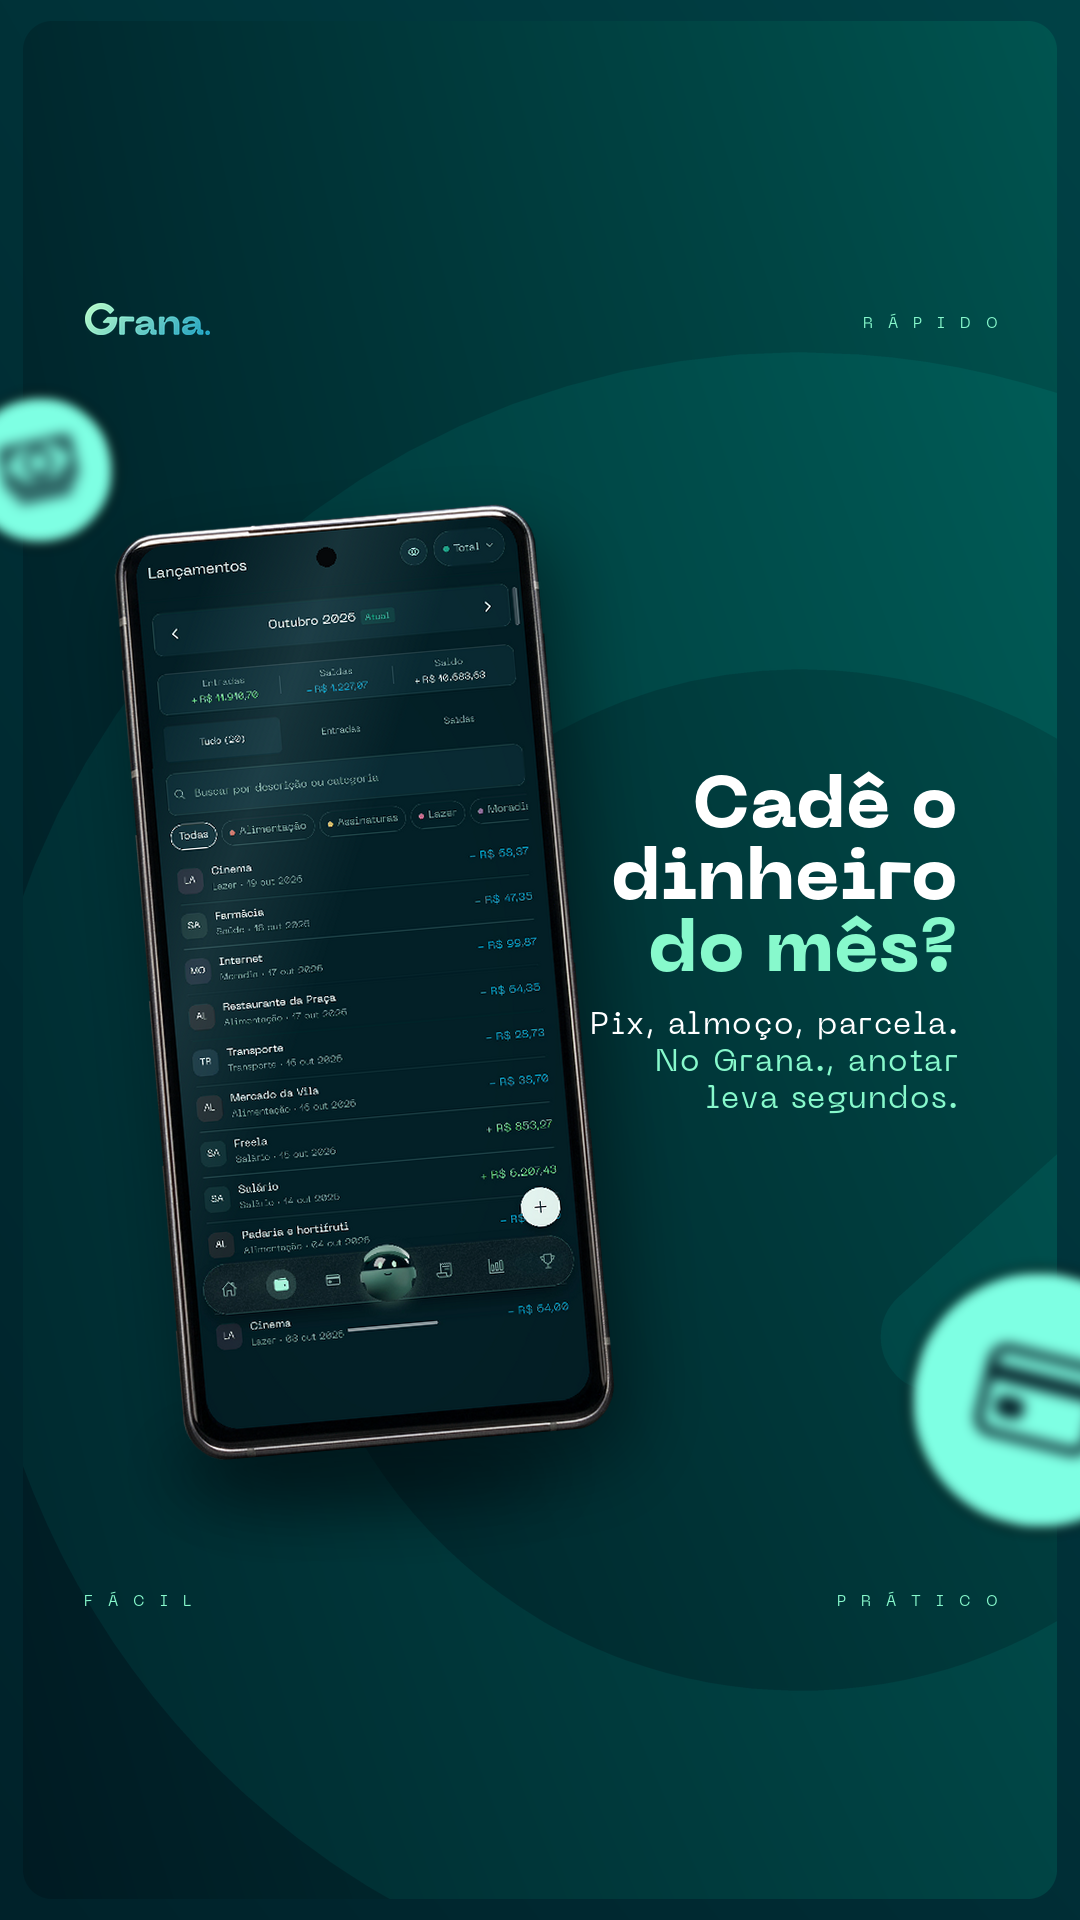
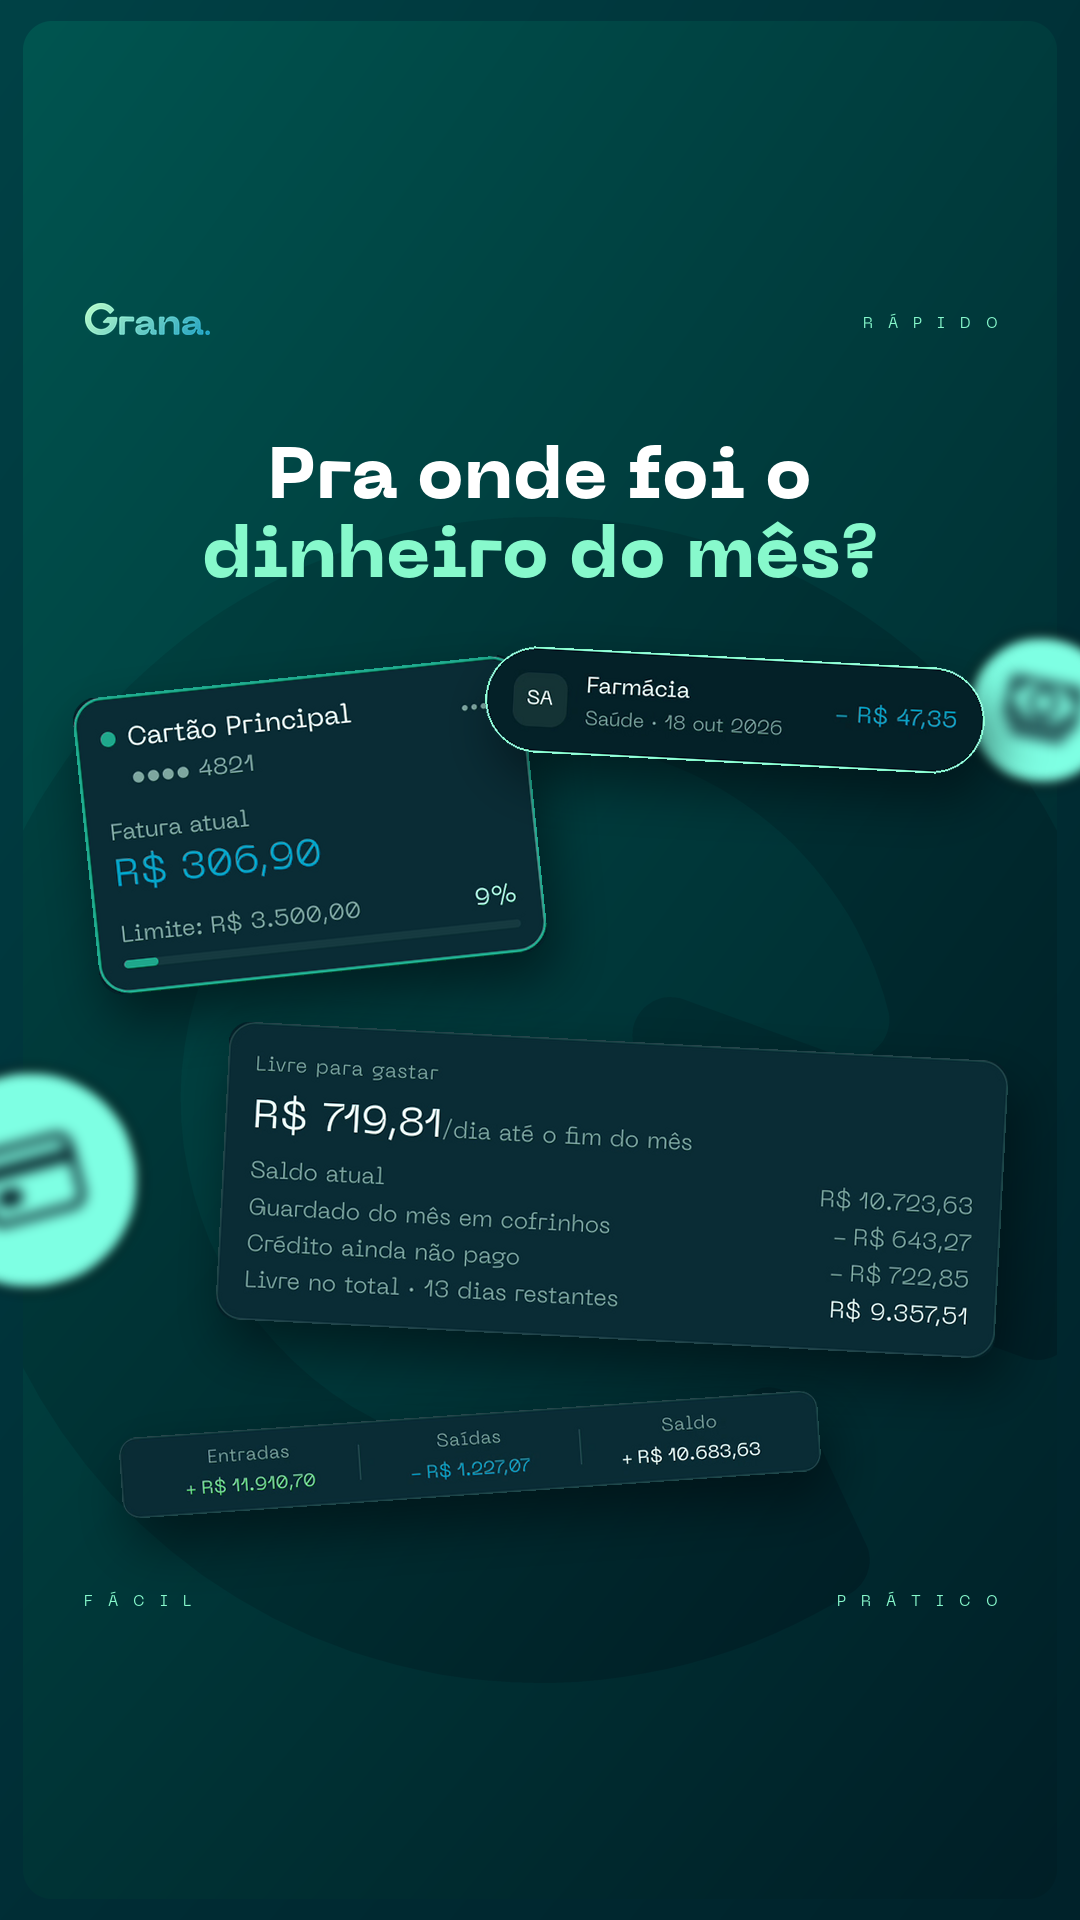
marketing(reels): capa nova de "Pra onde foi o dinheiro do mes" no estilo da referencia
Autor recusou a capa v1 (arquetipo C) e mandou uma referencia: titulo
centrado e cartoes de interface soltos, inclinados, com uma etiqueta.
No Grana. isso e o arquetipo E, jeito 3, do guia de design estatico:
cartoes recortados dos quadros reais da conta de teste (Cartao Principal
com a barra do limite, Livre para gastar, resumo do mes e a linha da
Farmacia como etiqueta), no fundo escuro da serie, sem o fundo claro da
referencia. A v1 foi para historico.

Claude-Session: https://claude.ai/code/session_01MGXvhCZ94jQ1NdrevCJNHU

diff --git a/docs/marketing/2026-10/semana-43-2026-10-19-a-2026-10-25/apoio/ferramentas/gerar-capa-reels-fim-do-mes.py b/docs/marketing/2026-10/semana-43-2026-10-19-a-2026-10-25/apoio/ferramentas/gerar-capa-reels-fim-do-mes.py
@@ -1,18 +1,27 @@
-"""Capa 1080x1920 do Reels "Pra onde foi o dinheiro do mês" (21/10/2026).
+"""Capa 1080x1920 do Reels "Pra onde foi o dinheiro do mês" (21/10/2026), versão 2.
 
-Usa o gerador das capas aprovadas da semana 41 (gerar-capas-reels.py), no sistema do
-guia-de-design-estatico-feed-3x4.md (regra 26). Arquétipo C (celular à esquerda, texto à
-direita), para não repetir a capa anterior, do Granabô, que é arquétipo A. A tela é a lista
-real de Lançamentos gravada no celular do autor (conta de teste).
+A primeira versão (arquétipo C, celular com a lista de Lançamentos) foi recusada pelo autor:
+"Não gostei dessa capa, vamos tentar fazer algo no estilo das referências [...] adaptado para o
+Grana. com nosso estilo visual". A referência era um anúncio de outro app com título centrado e
+cartões de interface soltos, inclinados e sobrepostos, mais uma etiqueta de notificação.
 
-Uso:  python -I gerar-capa-reels-fim-do-mes.py <tela.png> <saida.png>
-A tela é um quadro de lancamentos.mp4 (1080x2388), em E:/Grana-temporarios.
+No Grana. isso é o arquétipo E, jeito 3, do guia-de-design-estatico-feed-3x4.md (seção 10b):
+cartões recortados de print real do app, girados de 3° a 8°, sobre o fundo escuro da série (painel,
+G, logotipo em gradiente, RÁPIDO/FÁCIL/PRÁTICO), sem o fundo claro quadriculado da referência.
+O título fica centrado, como na referência.
+
+Uso:  python -I gerar-capa-reels-fim-do-mes.py <pasta-dos-quadros> <saida.png>
+A pasta tem os quadros 1080x2388 das gravações do celular (conta de teste), em E:/Grana-temporarios:
+  credito.png      credito.mp4 em 1,0 s
+  inicio.png       lancar-por-voz.mp4 em 0,8 s
+  lancamentos.png  lancamentos.mp4 em 0,5 s
 """
 import importlib.util
 import os
 import sys
 
-from PIL import Image, ImageDraw
+import numpy as np
+from PIL import Image, ImageDraw, ImageFilter
 
 AQUI = os.path.dirname(os.path.abspath(__file__))
 RAIZ = os.path.abspath(os.path.join(AQUI, *(['..'] * 6)))
@@ -22,38 +31,84 @@ C = importlib.util.module_from_spec(spec)
 spec.loader.exec_module(C)
 OY = C.OY
 
-
-def preparar_tela(tela):
-    """Tira a barra de status (cronômetro do gravador) e completa embaixo com a cor do rodapé,
-    para a gravação (0,452) caber na proporção da tela do mockup (0,433) sem cortar as laterais."""
-    im = Image.open(tela).convert('RGB')
-    barra = round(im.height * 0.045)
-    alvo_h = round(im.width / ((C.CEL_TELA[1][0] - C.CEL_TELA[0][0]) / (C.CEL_TELA[3][1] - C.CEL_TELA[0][1])))
-    nova = Image.new('RGB', (im.width, alvo_h), im.getpixel((im.width // 2, im.height - 4)))
-    nova.paste(im.crop((0, barra, im.width, im.height)), (0, 0))
-    saida = os.path.splitext(tela)[0] + '-mockup.png'
-    nova.save(saida)
-    return saida
+# Caixas dos cartões nos quadros 1080x2388, medidas pela borda de cada cartão contra o fundo da tela.
+CARTAO_CREDITO = ('credito.png', (34, 474, 544, 812))       # Cartão Principal, fatura e barra do limite
+LIVRE = ('inicio.png', (34, 737, 1046, 1123))               # Livre para gastar e o que sai dele
+RESUMO = ('lancamentos.png', (34, 473, 1046, 590))          # Entradas, Saídas e Saldo do mês
+LINHA = ('lancamentos.png', (43, 1136, 1037, 1246))         # Farmácia, vira a etiqueta
+RAIO_APP = 26                                               # canto dos cartões no app, em px do quadro
 
 
-def capa(tela, saida):
-    g = dict(cx=800, cy=OY + 940, r=790, rot=3, delta=13)
-    base, cob = C.ajustar_g(True, g)
+def cartao(quadros, fonte_caixa, largura, raio=RAIO_APP):
+    arq, caixa = fonte_caixa
+    im = Image.open(os.path.join(quadros, arq)).convert('RGBA').crop(caixa)
+    esc = largura / im.width
+    im = im.resize((largura, round(im.height * esc)), Image.LANCZOS)
+    m = C.ret_arredondado(im.width, im.height, max(6, round(raio * esc)))
+    im.putalpha(m)
+    return im
+
+
+def etiqueta(quadros, largura):
+    """A linha real do lançamento numa pílula com borda menta, como a notificação da referência.
+    O nome e o valor vêm da mesma linha; o vão entre eles encolhe, como na linha do app numa tela
+    mais estreita, para o texto continuar legível no tamanho da capa."""
+    arq, (x0, y0, x1, y1) = LINHA
+    im = Image.open(os.path.join(quadros, arq)).convert('RGBA')
+    nome = im.crop((x0, y0, 420, y1))
+    valor = im.crop((860, y0, x1, y1))
+    vao, borda = 40, 28
+    esc = (largura - 2 * borda) / (nome.width + vao + valor.width)
+    nome = nome.resize((round(nome.width * esc), round(nome.height * esc)), Image.LANCZOS)
+    valor = valor.resize((round(valor.width * esc), round(valor.height * esc)), Image.LANCZOS)
+    h = nome.height + 24
+    fundo_cor = tuple(int(v) for v in np.asarray(im)[y0 + 4, 640][:3])
+    pilula = Image.new('RGBA', (largura, h), (0, 0, 0, 0))
+    d = ImageDraw.Draw(pilula)
+    d.rounded_rectangle([0, 0, largura - 1, h - 1], radius=h // 2, fill=fundo_cor + (255,), outline=C.MENTA + (255,), width=2)
+    pilula.alpha_composite(nome, (borda, 12))
+    pilula.alpha_composite(valor, (largura - borda - valor.width, 12))
+    return pilula
+
+
+def colar(base, im, centro, rot):
+    im = im.rotate(rot, resample=Image.BICUBIC, expand=True)
+    x = int(centro[0] - im.width / 2)
+    y = int(centro[1] - im.height / 2)
+    a = np.asarray(im.split()[-1], float)
+    sombra = Image.new('L', base.size, 0)
+    sombra.paste(Image.fromarray((a * 0.6).astype(np.uint8)), (x + 10, y + 26))
+    sombra = sombra.filter(ImageFilter.GaussianBlur(26))
+    escuro = Image.new('RGBA', base.size, (0, 10, 14, 255))
+    base = Image.composite(escuro, base, sombra)
+    base.alpha_composite(im, (x, y))
+    return base, (x, y, x + im.width, y + im.height)
+
+
+def capa(quadros, saida):
+    g = dict(cx=540, cy=OY + 860, r=640, rot=200, espelho=True, delta=-8)
+    base, cob = C.ajustar_g(False, g)
     base = base.convert('RGBA')
-    C.icone(base, 'dinheiro', (40, OY + 230), 150, -12)
-    C.icone(base, 'cartao', (1040, OY + 1160), 260, 14)
-    cel = C.celular_com_tela(preparar_tela(tela))
-    base, caixa = C.colar_celular(base, cel, (362, OY + 742), 930, 5)
+    C.icone(base, 'dinheiro', (1042, OY + 470), 150, 12)
+    C.icone(base, 'cartao', (30, OY + 940), 220, -15)
+
+    caixas = {}
+    base, caixas['credito'] = colar(base, cartao(quadros, CARTAO_CREDITO, 450), (310, OY + 585), 6)
+    base, caixas['livre'] = colar(base, cartao(quadros, LIVRE, 780), (612, OY + 950), -3)
+    base, caixas['resumo'] = colar(base, cartao(quadros, RESUMO, 700), (470, OY + 1215), 4)
+    base, caixas['etiqueta'] = colar(base, etiqueta(quadros, 500), (735, OY + 470), -3)
+
     d = ImageDraw.Draw(base)
     h1 = C.fonte(C.ULTRABOLD, 72)
-    h2 = C.fonte(C.REGULAR, 31)
-    y = C.escrever(d, [[('Cadê o', C.BRANCO)], [('dinheiro', C.BRANCO)], [('do mês?', C.MENTA)]], h1, 958, OY + 587, 72, 0, 'dir')
-    C.escrever(d, [[('Pix, almoço, parcela.', C.BRANCO)], [('No Grana., anotar', C.MENTA)], [('leva segundos.', C.MENTA)]], h2, 958, y + 19 + 22 + 22, 37, 0.05, 'dir')
+    linhas = [[('Pra onde foi o', C.BRANCO)], [('dinheiro do mês?', C.MENTA)]]
+    for i, partes in enumerate(linhas):
+        w = sum(C.largura(t, h1, 0) for t, _ in partes)
+        C.escrever(d, [partes], h1, 540 - w / 2, OY + 258 + i * 79, 0)
     C.fixos(base)
     base.convert('RGB').save(saida)
-    return cob, caixa
+    return cob, caixas
 
 
 if __name__ == '__main__':
-    cob, caixa = capa(sys.argv[1], sys.argv[2])
-    print(f'G cobre {cob:.0%} do painel; celular em {caixa}')
+    cob, caixas = capa(sys.argv[1], sys.argv[2])
+    print(f'G cobre {cob:.0%} do painel; caixas {caixas}')

diff --git a/docs/marketing/2026-10/semana-43-2026-10-19-a-2026-10-25/INDICE.md b/docs/marketing/2026-10/semana-43-2026-10-19-a-2026-10-25/INDICE.md
@@ -5,7 +5,8 @@
 - `para-aprovacao/pecas/reels/Conheça o Granabô.mp4`: Reels de apresentação do mascote, 1080x1920, 17,6 s, v6 de 19/10/2026 (celular maior e cortado embaixo, foco no Granachat, barra de status com o cronômetro do gravador escondida sob a moldura). Montado na Editonny (HyperFrames) com narração da ElevenLabs (voz "Gabriel - Shorts & Reels", aprovada pelo autor), trilha pop local e as telas reais gravadas no celular do autor (conta de teste). Fontes da edição em `apoio/reels-granabo-v3/`. Legenda em `para-aprovacao/pecas/COPYS-FINAIS.md`.
 - `para-aprovacao/pecas/reels/Conheça o Granabô-capa.png`: capa do Reels, 1080x1920, arquétipo A do guia de design estático (texto à esquerda, celular à direita com a resposta real do Granabô, mascote do app ao lado do texto, `assets/granabo/granabo-feliz.png`). Gerada por `apoio/ferramentas/gerar-capa-reels-granabo.py`.
 - `para-aprovacao/pecas/reels/Pra onde foi o dinheiro do mês.mp4`: Reels narrado, 1080x1920, 33,2 s, v1 de 21/10/2026. Roteiro R10 ("Registra do jeito que o gasto chegar") do `roteiros-v3-beacon.md`, adaptado às telas reais gravadas em 19/10: gancho com a dor do fim do mês e, em seguida, o Grana. resolvendo (voz, Pix colado, faturas do cartão, lista, gráfico e "Livre para gastar"). Feito com a skill "Meu editor de vídeo" (Editonny/HyperFrames), narração da ElevenLabs (voz "Gabriel - Shorts & Reels"), trilha pop própria composta por código e cronômetro do gravador escondido sob a moldura. Fontes em `apoio/reels-fim-do-mes/`. Legenda em `para-aprovacao/pecas/COPYS-FINAIS.md`.
-- `para-aprovacao/pecas/reels/Pra onde foi o dinheiro do mês-capa.png`: capa do Reels, 1080x1920, arquétipo C do guia de design estático (celular à esquerda com a lista real de Lançamentos, texto à direita), diferente da capa anterior. Gerada por `apoio/ferramentas/gerar-capa-reels-fim-do-mes.py`.
+- `para-aprovacao/pecas/reels/Pra onde foi o dinheiro do mês-capa.png`: capa do Reels, 1080x1920, v2 de 21/10/2026, no estilo da referência enviada pelo autor e adaptada ao Grana.: arquétipo E, jeito 3, do guia de design estático (título centrado, cartões reais do app soltos e inclinados: Cartão Principal com a barra do limite, Livre para gastar e o resumo de Entradas, Saídas e Saldo, mais a linha da Farmácia como etiqueta). Gerada por `apoio/ferramentas/gerar-capa-reels-fim-do-mes.py` a partir dos quadros das gravações da conta de teste.
+- `historico/pecas/reels/Pra onde foi o dinheiro do mês-capa-v1-recusada.png`: capa v1 (arquétipo C, celular com a lista de Lançamentos), recusada pelo autor em 21/10/2026: "Não gostei dessa capa".
 
 ## Observações da produção
 
